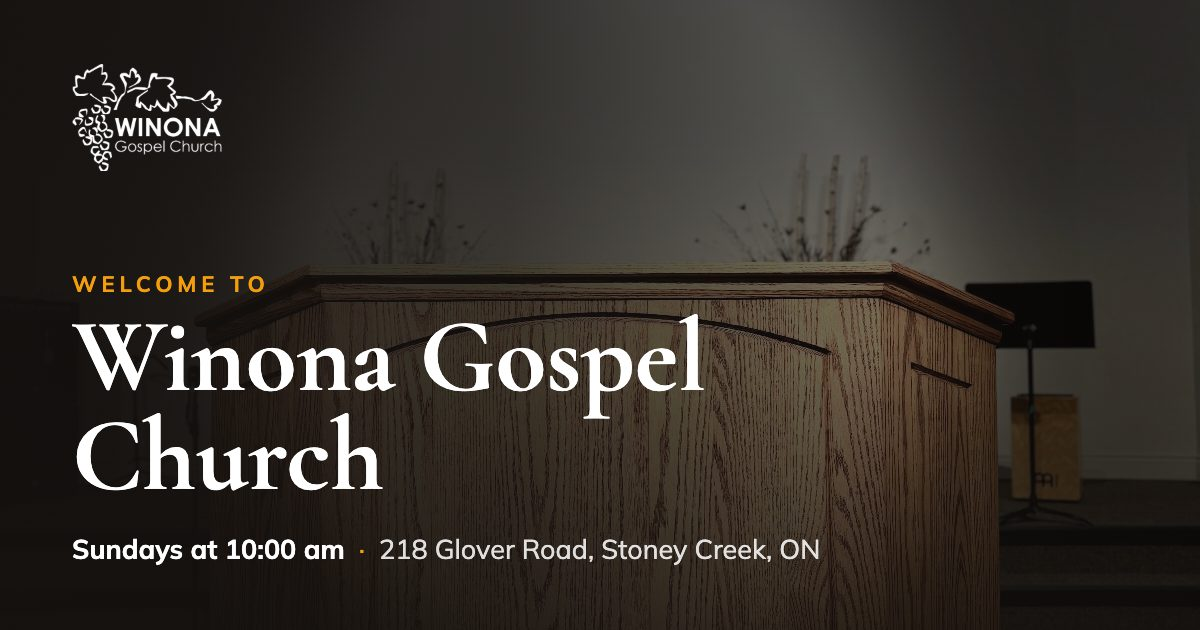
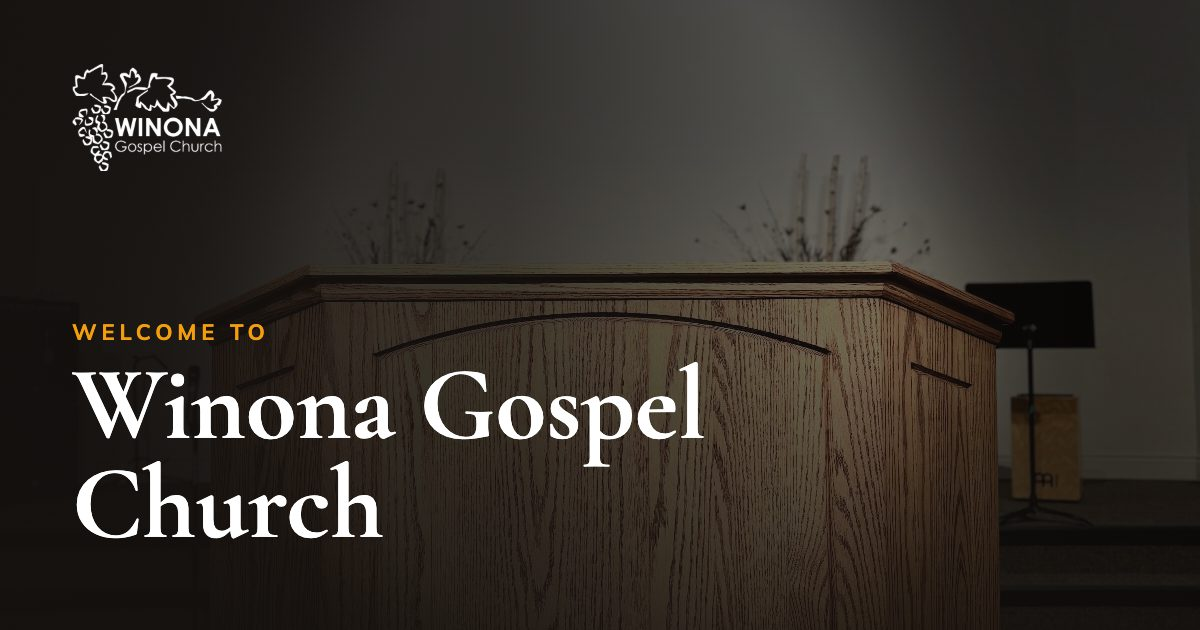
Drop the service time and address from the site share card
Keeps the card to the logo and "Welcome to Winona Gospel Church", so it
doesn't go stale if service details change.

Changed region(s): [[0.0617, 0.4825, 0.6783, 0.9048], [0.0617, 0.4222, 0.2158, 0.4825]]

diff --git a/nextjs-app/src/pages/_app.tsx b/nextjs-app/src/pages/_app.tsx
@@ -28,7 +28,7 @@ const MyApp = ({ Component, pageProps }: AppProps) => (
               url: `${process.env.NEXT_PUBLIC_SITE_URL}/assets/images/share.jpg`,
               width: 1200,
               height: 630,
-              alt: `${AppConfig.title}, Sundays at 10:00 am, 218 Glover Road, Stoney Creek`,
+              alt: `Welcome to ${AppConfig.title}`,
             },
           ],
         },
